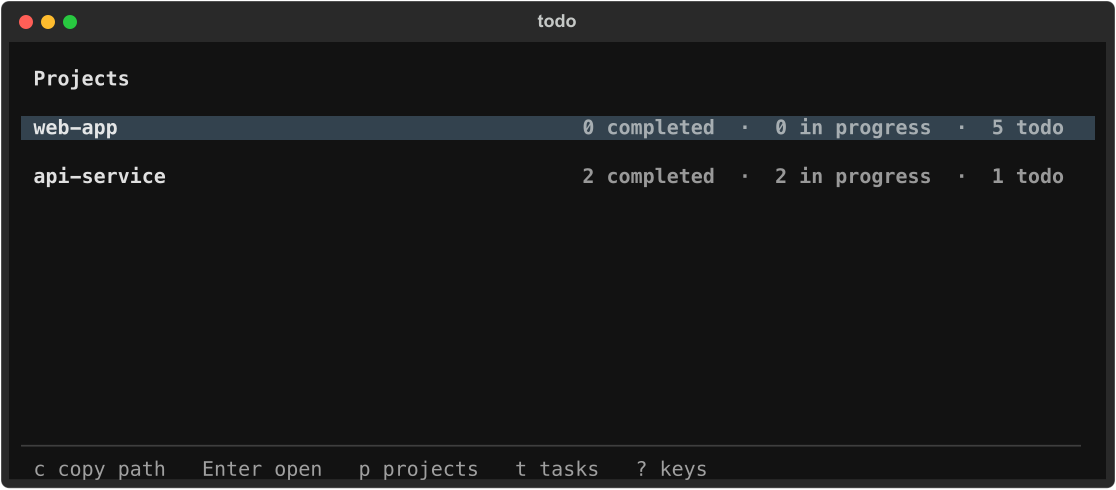
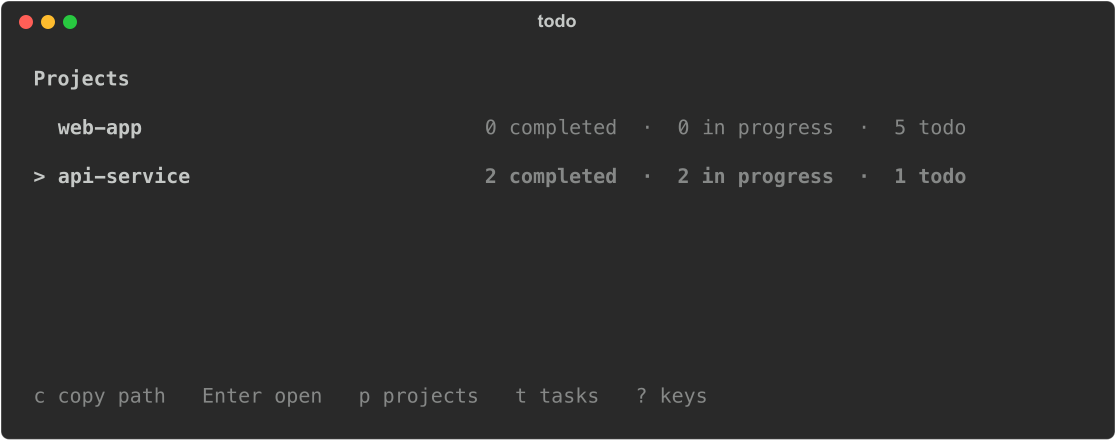
match the terminal's own look
Switch to the ANSI theme so the app inherits the terminal palette and
leaves its background untouched, replace the filled selection bar with a
>` marker plus bold, dim secondary text, and drop the bordered prompt.
Adds TODOX_THEME for users who prefer another Textual theme.

diff --git a/todox/ui.py b/todox/ui.py
@@ -1,9 +1,15 @@
-"""Responsive, keyboard-first Textual interface."""
+"""Responsive, keyboard-first Textual interface.
+
+The look is deliberately terminal-native: the ANSI theme leaves the terminal
+background and foreground untouched, secondary text is dim, and the selected
+row is marked with ``>`` instead of a filled bar.
+"""
 from __future__ import annotations
 
 from dataclasses import dataclass
 from pathlib import Path
 from asyncio import to_thread
+import os
 import subprocess
 import sys
 
@@ -60,6 +66,8 @@ class TodoApp(App[None]):
 
     def __init__(self, local: Path | None = None, registry: Path | None = None):
         super().__init__()
+        # Any Textual theme name works; the default keeps the terminal's own colors.
+        self.theme = os.environ.get("TODOX_THEME", "ansi-dark")
         self.local = local.resolve() if local else None
         self.registry = registry
         self.projects_data: list[Project] = []
@@ -67,6 +75,8 @@ class TodoApp(App[None]):
         self.selected_project: Path | None = self.local
         self.last_project: Path | None = None
         self.rows: list[Row] = []
+        self._row_widgets: list[Static] = []
+        self.selected_index = 0
         self.show_completed = True
         self.show_dates = False
         self.search_query = ""
@@ -156,42 +166,59 @@ class TodoApp(App[None]):
             common[2:2] = ["p / t         Projects / open tasks", "c             Copy project path"]
         return common
 
-    def _render_row(self, row: Row, width: int) -> tuple[Text, str]:
+    def _render_row(self, row: Row, width: int, index: int = 0, selected: bool = False) -> tuple[Text, str]:
+        marker = "> " if selected else "  "
         if row.kind == "help":
-            return Text(self._help_lines()[len(self._rendered_items)], style="dim"), "help-row"
+            return Text(marker + self._help_lines()[index], style="" if selected else "dim"), "help-row"
         if row.kind == "conflict":
             change = row.change
             assert change
             label = change.name or change.project or change.uid
-            return Text.assemble((label + " · ", "dim"), (change.text or change.uid, "bold"), (f"\n{change.reason}", "dim")), "conflict-row"
+            return Text.assemble((marker, "bold" if selected else ""), (label + " · ", "dim"),
+                                 (change.text or change.uid, "bold"), (f"\n  {change.reason}", "dim")), "conflict-row"
         if row.kind == "project":
             p = row.project
             assert p
             if p.error:
-                return Text.assemble((p.name, "bold"), ("  unavailable", "red")), "project-row"
+                return Text.assemble((marker, "bold" if selected else ""), (p.name, "bold"), ("  unavailable", "red")), "project-row"
             tally = counts(list(p.doc.tasks)) if p.doc else {" ": 0, "/": 0, "x": 0}
             summary = f'{tally["x"]} completed  ·  {tally["/"]} in progress  ·  {tally[" "]} todo'
-            if width < 68:
+            if width < 78:
                 compact = f'{tally["x"]} done · {tally["/"]} doing · {tally[" "]} todo'
-                return Text.assemble((p.name + "\n", "bold"), (compact, "dim")), "project-row narrow"
-            label = Text(p.name, style="bold")
-            gap = max(2, width - cell_len(p.name) - cell_len(summary) - 5)
+                return Text.assemble((marker, "bold" if selected else ""), (p.name + "\n", "bold"), ("  " + compact, "dim")), "project-row narrow"
+            label = Text(marker, style="bold" if selected else "")
+            label.append(p.name, style="bold")
+            # Marker, shell padding and list padding all cost cells before the summary.
+            gap = max(2, width - cell_len(p.name) - cell_len(summary) - 5 - 10)
             label.append(" " * gap)
             label.append(summary, style="dim")
             return label, "project-row"
         if row.kind == "section":
-            return Text(row.section.title, style="bold"), "section-row"
+            return Text.assemble((marker, "bold" if selected else ""), (row.section.title, "bold")), "section-row"
         assert row.task and row.project
         t = row.task
-        marker = {" ": "[ ]", "/": "[/]", "x": "[x]"}[t.status]
-        result = Text(marker, style="dim" if t.status == "x" else "bold")
-        result.append("  ")
+        box = {" ": "[ ]", "/": "[/]", "x": "[x]"}[t.status]
+        result = Text(marker, style="bold" if selected else "")
+        result.append(box + "  ", style="dim" if t.status == "x" else "bold")
         if self.page == "tasks":
             result.append(f"{row.project.name} / ", style="dim")
         result.append(t.text, style="dim" if t.status == "x" else "")
         if self.show_dates and t.completed:
             result.append(f" · {t.completed}", style="dim")
         return result, "task-row" + (" done" if t.status == "x" else "")
+
+    def _paint_selection(self) -> None:
+        """Move the ``>`` marker without rebuilding the list on every keypress."""
+        width = self.size.width
+        for index, (row, widget) in enumerate(zip(self.rows, self._row_widgets)):
+            display, _ = self._render_row(row, width, index, index == self.selected_index)
+            widget.update(display)
+
+    async def on_list_view_highlighted(self, event: ListView.Highlighted) -> None:
+        if event.list_view.id != "items":
+            return
+        self.selected_index = event.list_view.index or 0
+        self._paint_selection()
 
     async def draw(self, preserve: bool = False) -> None:
         if not self.is_mounted:
@@ -200,16 +227,21 @@ class TodoApp(App[None]):
         old = self._selected() if preserve else None
         old_index = listing.index or 0
         self.rows = self._rows()
-        self._rendered_items: list[ListItem] = []
+        self._row_widgets = []
+        items: list[ListItem] = []
         width = self.size.width
-        for row in self.rows:
-            display, classes = self._render_row(row, width)
-            self._rendered_items.append(ListItem(Static(display, markup=False), classes=classes))
+        for index, row in enumerate(self.rows):
+            display, classes = self._render_row(row, width, index)
+            widget = Static(display, markup=False)
+            self._row_widgets.append(widget)
+            items.append(ListItem(widget, classes=classes))
         await listing.clear()
-        if self._rendered_items:
-            await listing.extend(self._rendered_items)
+        if items:
+            await listing.extend(items)
             index = self.rows.index(old) if old in self.rows else min(old_index, len(self.rows) - 1) if preserve else 0
             listing.index = index
+            self.selected_index = index
+            self._paint_selection()
         self._update_chrome()
 
     def _update_chrome(self) -> None:

diff --git a/todox/cli.py b/todox/cli.py
@@ -33,7 +33,7 @@ def run(args: list[str] | None = None, cwd: Path | None = None) -> int:
         print(HELP)
         return 0
     if command == "--version":
-        print("0.4.0")
+        print("0.4.1")
         return 0
     if command == "init" and len(args) == 1:
         path = cwd / "TODO.md"

diff --git a/README.md b/README.md
@@ -66,6 +66,8 @@ Completion adds a visible suffix, for example `- [x] Ship (completed: 2026-10-12
 
 The layout scrolls and reflows with the terminal size. Narrow project rows put counts beneath the name; short screens hide secondary hints, not tasks. Task files retain their line endings and unrelated Markdown. Updates use a cooperative lock, a stale-file check, and atomic replacement.
 
+The interface draws with your terminal's own palette: the ANSI theme leaves the terminal background untouched, secondary text is dim, and the selected row is marked with `>` and bold rather than a filled bar. Set `TODOX_THEME` to any Textual theme name to override it.
+
 ## TickTick sync (optional)
 
 `todox` can mirror tasks to a TickTick account through the official [Open API](https://developer.ticktick.com/docs/index.html#/openapi). Setup needs one personal token; nothing is uploaded until you sync.
